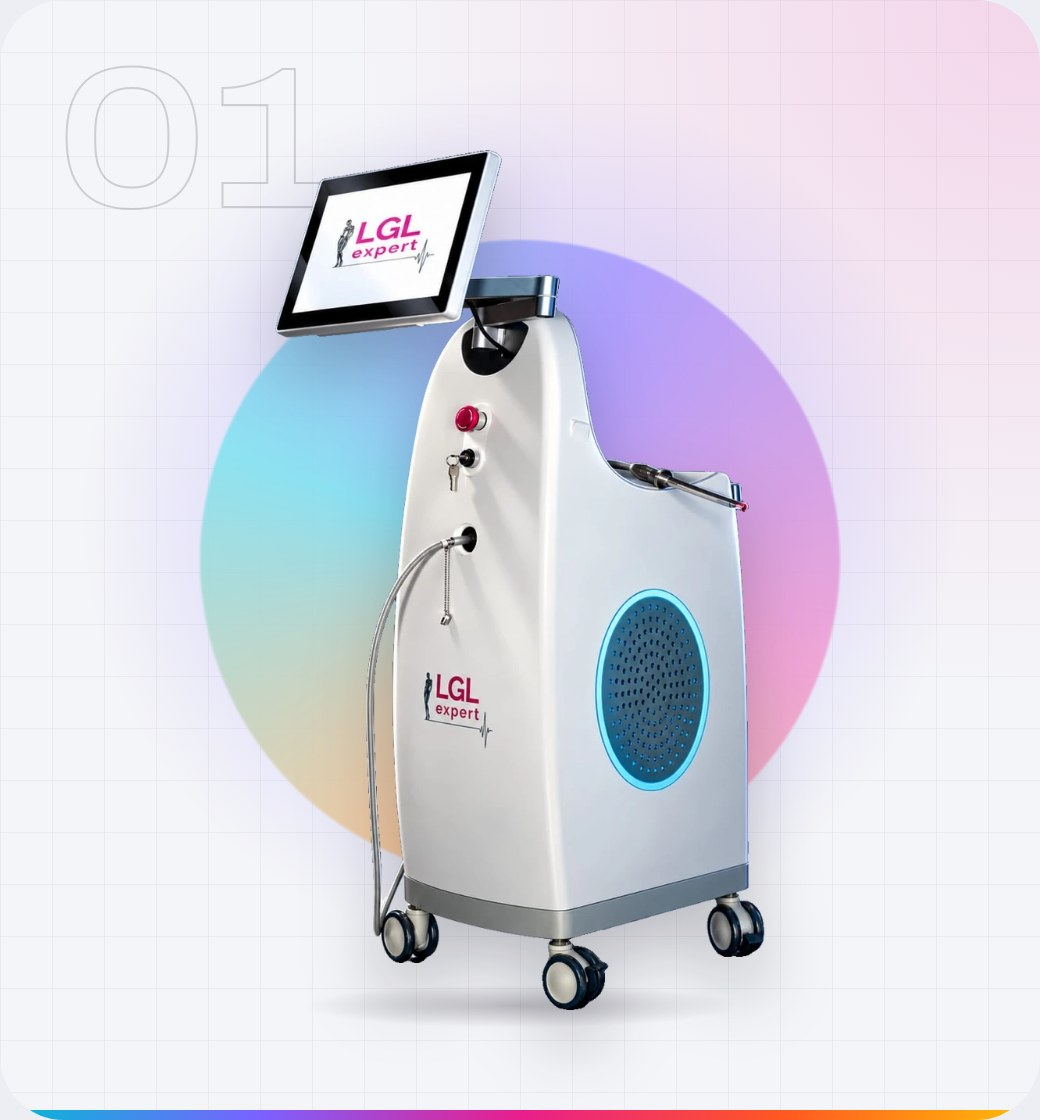
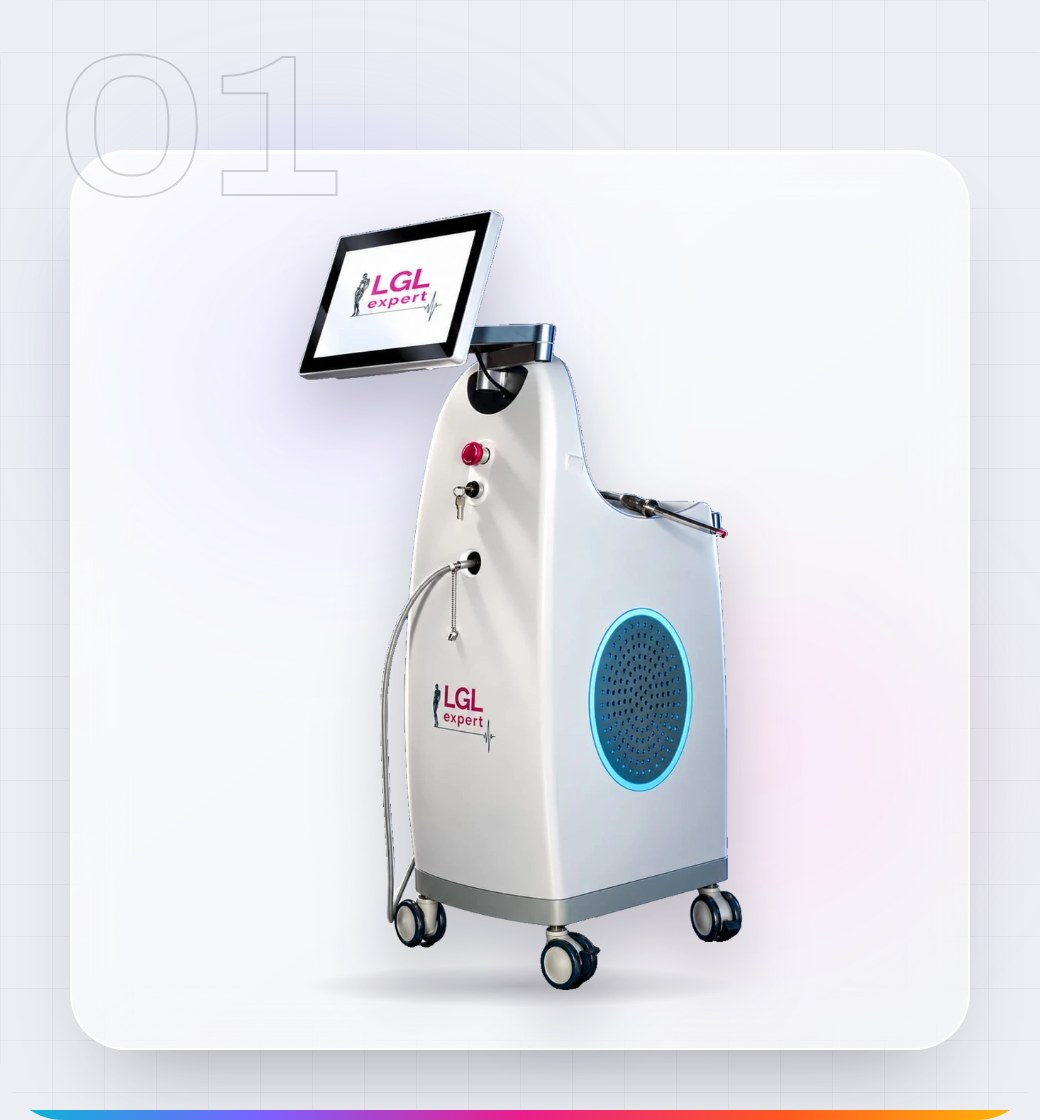
Newsletter Academy : glassmorphism à la place du disque irisé
Le disque irisé derrière les machines est retiré (en-tête et scènes) et
ne doit plus être utilisé. Les machines détourées sont posées sur un
panneau de verre dépoli (blanc translucide, flou, bord blanc, reflet,
ombre douce), avec de simples lueurs pastel floues derrière, comme le
« glass » du site.

Claude-Session: https://claude.ai/code/session_01XSUMFbQi9ieKEVBBwvfqbf

diff --git a/emails/newsletter/hero/hero.html b/emails/newsletter/hero/hero.html
@@ -12,15 +12,18 @@ body{position:relative;overflow:hidden;background:#ECEEF3;
 .dot{width:12px;height:12px;border-radius:50%;background:linear-gradient(135deg,#00BCD4,#7B61FF,#E91E8C)}
 h1{margin-top:36px;font-family:'Archivo';font-stretch:118%;font-weight:560;text-transform:uppercase;letter-spacing:-.035em;line-height:.92;font-size:var(--fs,80px);color:#1D1B26}
 h1 .iri{background:linear-gradient(100deg,#1D1B26 0%,#6B5CFF 30%,#D0469C 65%,#E38A3C 100%);-webkit-background-clip:text;background-clip:text;color:transparent}
-.halo{position:absolute;right:40px;top:70px;width:470px;height:470px;border-radius:50%;background:radial-gradient(circle,rgba(255,255,255,.95) 0%,rgba(255,255,255,.55) 45%,rgba(255,255,255,0) 70%);z-index:1}
-.ring{position:absolute;right:70px;top:100px;width:410px;height:410px;border-radius:50%;border:2px solid transparent;background:linear-gradient(#0000,#0000) padding-box,conic-gradient(from 200deg,#7FE3F0,#A797FF,#F29BD0,#FFC58F,#7FE3F0) border-box;opacity:.9;z-index:1}
-.machine{position:absolute;right:120px;bottom:96px;height:520px;z-index:2;filter:drop-shadow(0 30px 30px rgba(29,27,38,.28))}
-.floor{position:absolute;right:150px;bottom:84px;width:260px;height:30px;border-radius:50%;background:radial-gradient(rgba(29,27,38,.28),transparent 70%);z-index:1}
-.chip{position:absolute;right:430px;top:440px;z-index:4;background:rgba(255,255,255,.92);border:1px solid #fff;border-radius:999px;padding:12px 22px;font-family:'JetBrains Mono';font-size:19px;letter-spacing:.14em;color:#1D1B26;text-transform:uppercase;box-shadow:0 14px 34px -18px rgba(29,27,38,.45)}
+.blob{position:absolute;border-radius:50%;filter:blur(60px);z-index:0}
+.b1{right:250px;top:60px;width:300px;height:260px;background:rgba(167,151,255,.35)}
+.b2{right:40px;top:300px;width:280px;height:240px;background:rgba(127,227,240,.30)}
+/* Verre dépoli (glass du site) : blanc translucide, flou, bord blanc, reflet en haut, ombre douce */
+.glass{position:absolute;right:56px;top:48px;width:440px;height:520px;border-radius:44px;z-index:1;background:linear-gradient(145deg,rgba(255,255,255,.78),rgba(255,255,255,.40));backdrop-filter:blur(22px) saturate(1.4);border:2px solid rgba(255,255,255,.95);box-shadow:inset 0 2px 0 rgba(255,255,255,.95),0 48px 90px -40px rgba(29,27,38,.35)}
+.machine{position:absolute;right:120px;bottom:134px;height:450px;z-index:2;filter:drop-shadow(0 30px 30px rgba(29,27,38,.28))}
+.floor{position:absolute;right:150px;bottom:124px;z-index:2;width:260px;height:30px;border-radius:50%;background:radial-gradient(rgba(29,27,38,.28),transparent 70%);z-index:1}
+.chip{position:absolute;right:84px;top:478px;z-index:4;background:rgba(255,255,255,.55);backdrop-filter:blur(14px);border:1.5px solid rgba(255,255,255,.9);border-radius:999px;padding:12px 22px;font-family:'JetBrains Mono';font-size:19px;letter-spacing:.14em;color:#1D1B26;text-transform:uppercase;box-shadow:0 14px 34px -18px rgba(29,27,38,.45)}
 svg{position:absolute;left:0;bottom:66px;width:1200px;height:80px;z-index:1}
 .foot{position:absolute;left:72px;bottom:34px;font-family:'JetBrains Mono';font-size:18px;letter-spacing:.24em;color:#5D5B6B;text-transform:uppercase}
 </style></head><body>
-<div class="grid"></div><div class="halo"></div><div class="ring"></div><div class="floor"></div>
+<div class="grid"></div><div class="blob b1"></div><div class="blob b2"></div><div class="glass"></div><div class="floor"></div>
 <svg viewBox="0 0 1200 80" fill="none"><defs><linearGradient id="g" x1="0" x2="1200" y1="0" y2="0" gradientUnits="userSpaceOnUse"><stop offset="0" stop-color="#00BCD4"/><stop offset=".3" stop-color="#7B61FF"/><stop offset=".55" stop-color="#E91E8C"/><stop offset=".8" stop-color="#FF5722"/><stop offset="1" stop-color="#FFC107"/></linearGradient></defs>
 <path d="M0 50 H420 L446 50 L466 14 L486 72 L504 34 L518 50 H1200" stroke="url(#g)" stroke-width="3" stroke-linecap="round" stroke-linejoin="round"/></svg>
 <img class="machine" id="img"><div class="chip" id="chip"></div>
@@ -28,6 +31,7 @@ svg{position:absolute;left:0;bottom:66px;width:1200px;height:80px;z-index:1}
 <div class="foot">Cellulift Academy · Newsletter</div>
 <script>const q=new URLSearchParams(location.search);document.getElementById('lab').textContent=q.get('lab');
 document.getElementById('t').innerHTML=q.get('a')+'<br><span class="iri">'+q.get('b')+'</span>';
-const im=document.getElementById('img');im.src=q.get('img');if(q.get('wide'))im.style.height='420px';
+const im=document.getElementById('img');im.src=q.get('img');if(q.get('wide'))im.style.height='340px';
+im.onload=()=>{im.style.right=(56+220-im.getBoundingClientRect().width/2)+'px';};
 document.getElementById('chip').textContent=q.get('chip');document.documentElement.style.setProperty('--fs',(q.get('fs')||80)+'px');</script>
 </body></html>

diff --git a/emails/newsletter/hero/stage.html b/emails/newsletter/hero/stage.html
@@ -4,15 +4,19 @@
 <style>
 *{margin:0;padding:0;box-sizing:border-box}
 html,body{width:1040px;height:1120px;background:#ECEEF3}
-.card{position:absolute;inset:0;border-radius:64px;overflow:hidden;background:#F4F5F8;background-image:radial-gradient(circle at 50% 46%,var(--c) 0%,transparent 55%),radial-gradient(circle at 100% 0%,var(--c2),transparent 45%)}
+.card{position:absolute;inset:0;border-radius:64px;overflow:hidden;background:#ECEEF3}
 .grid{position:absolute;inset:0;background-image:linear-gradient(rgba(29,27,38,.045) 1px,transparent 1px),linear-gradient(90deg,rgba(29,27,38,.045) 1px,transparent 1px);background-size:52px 52px}
-.num{position:absolute;left:56px;top:40px;font-family:'Archivo';font-stretch:125%;font-weight:600;font-size:200px;line-height:1;color:transparent;-webkit-text-stroke:2px rgba(29,27,38,.18)}
-.disc{position:absolute;left:50%;top:50%;width:640px;height:640px;transform:translate(-50%,-50%) rotate(var(--r,0deg));border-radius:50%;background:conic-gradient(from 200deg,#7FE3F0,#A797FF,#F29BD0,#FFC58F,#7FE3F0);opacity:.85;filter:blur(1px)}
-.machine{position:absolute;left:50%;bottom:110px;transform:translateX(-50%);max-width:820px;height:860px;object-fit:contain;filter:drop-shadow(0 34px 34px rgba(29,27,38,.25))}
-.floor{position:absolute;left:50%;bottom:92px;width:440px;height:44px;transform:translateX(-50%);border-radius:50%;background:radial-gradient(rgba(29,27,38,.25),transparent 70%)}
+.num{position:absolute;z-index:2;left:56px;top:28px;font-family:'Archivo';font-stretch:125%;font-weight:600;font-size:200px;line-height:1;color:transparent;-webkit-text-stroke:2px rgba(29,27,38,.18)}
+
+.blob{position:absolute;border-radius:50%;filter:blur(70px)}
+.b1{left:120px;top:160px;width:420px;height:380px;background:var(--c)}
+.b2{right:100px;bottom:200px;width:380px;height:340px;background:var(--c2)}
+.glass{position:absolute;left:70px;right:70px;top:150px;bottom:70px;border-radius:56px;background:linear-gradient(145deg,rgba(255,255,255,.80),rgba(255,255,255,.42));backdrop-filter:blur(26px) saturate(1.4);border:2px solid rgba(255,255,255,.95);box-shadow:inset 0 2px 0 rgba(255,255,255,.95),0 50px 90px -46px rgba(29,27,38,.38)}
+.machine{position:absolute;left:50%;bottom:130px;transform:translateX(-50%);max-width:760px;height:780px;object-fit:contain;filter:drop-shadow(0 34px 34px rgba(29,27,38,.25))}
+.floor{position:absolute;left:50%;bottom:112px;width:440px;height:44px;transform:translateX(-50%);border-radius:50%;background:radial-gradient(rgba(29,27,38,.25),transparent 70%)}
 .line{position:absolute;left:0;right:0;bottom:0;height:10px;background:linear-gradient(90deg,#00BCD4,#7B61FF,#E91E8C,#FF5722,#FFC107)}
-</style></head><body><div class="card"><div class="grid"></div><div class="num" id="n"></div><div class="disc"></div><div class="floor"></div><img class="machine" id="img"><div class="line"></div></div>
+</style></head><body><div class="card"><div class="grid"></div><div class="num" id="n"></div><div class="blob b1"></div><div class="blob b2"></div><div class="glass"></div><div class="floor"></div><img class="machine" id="img"><div class="line"></div></div>
 <script>const q=new URLSearchParams(location.search);document.getElementById('n').textContent=q.get('n');
 const s=document.documentElement.style;s.setProperty('--c',q.get('c'));s.setProperty('--c2',q.get('c2'));s.setProperty('--r',(q.get('r')||0)+'deg');
-const im=document.getElementById('img');im.src=q.get('img');if(q.get('wide'))im.style.height='640px';</script>
+const im=document.getElementById('img');im.src=q.get('img');if(q.get('wide'))im.style.height='560px';</script>
 </body></html>

diff --git a/emails/newsletter/hero/jobs.py b/emails/newsletter/hero/jobs.py
@@ -8,9 +8,9 @@ sys.path.insert(0, str(HERE.parent))
 from build import SEGMENTS  # noqa: E402
 
 CUTOUTS = HERE.parent / "cutouts"
-# Halo de chaque scène : couleurs iris pastel de la marque (cyan, violet, rose, pêche).
-GLOWS = [("rgba(127,227,240,.65)", "rgba(167,151,255,.35)"), ("rgba(167,151,255,.6)", "rgba(242,155,208,.35)"),
-         ("rgba(242,155,208,.55)", "rgba(255,197,143,.35)"), ("rgba(255,197,143,.6)", "rgba(127,227,240,.35)")]
+# Lueurs floues derrière le verre de chaque scène : couleurs iris pastel de la marque (jamais de disque plein).
+GLOWS = [("rgba(127,227,240,.40)", "rgba(167,151,255,.32)"), ("rgba(167,151,255,.40)", "rgba(242,155,208,.30)"),
+         ("rgba(242,155,208,.36)", "rgba(255,197,143,.30)"), ("rgba(255,197,143,.40)", "rgba(127,227,240,.30)")]
 
 
 def cutout(t):
